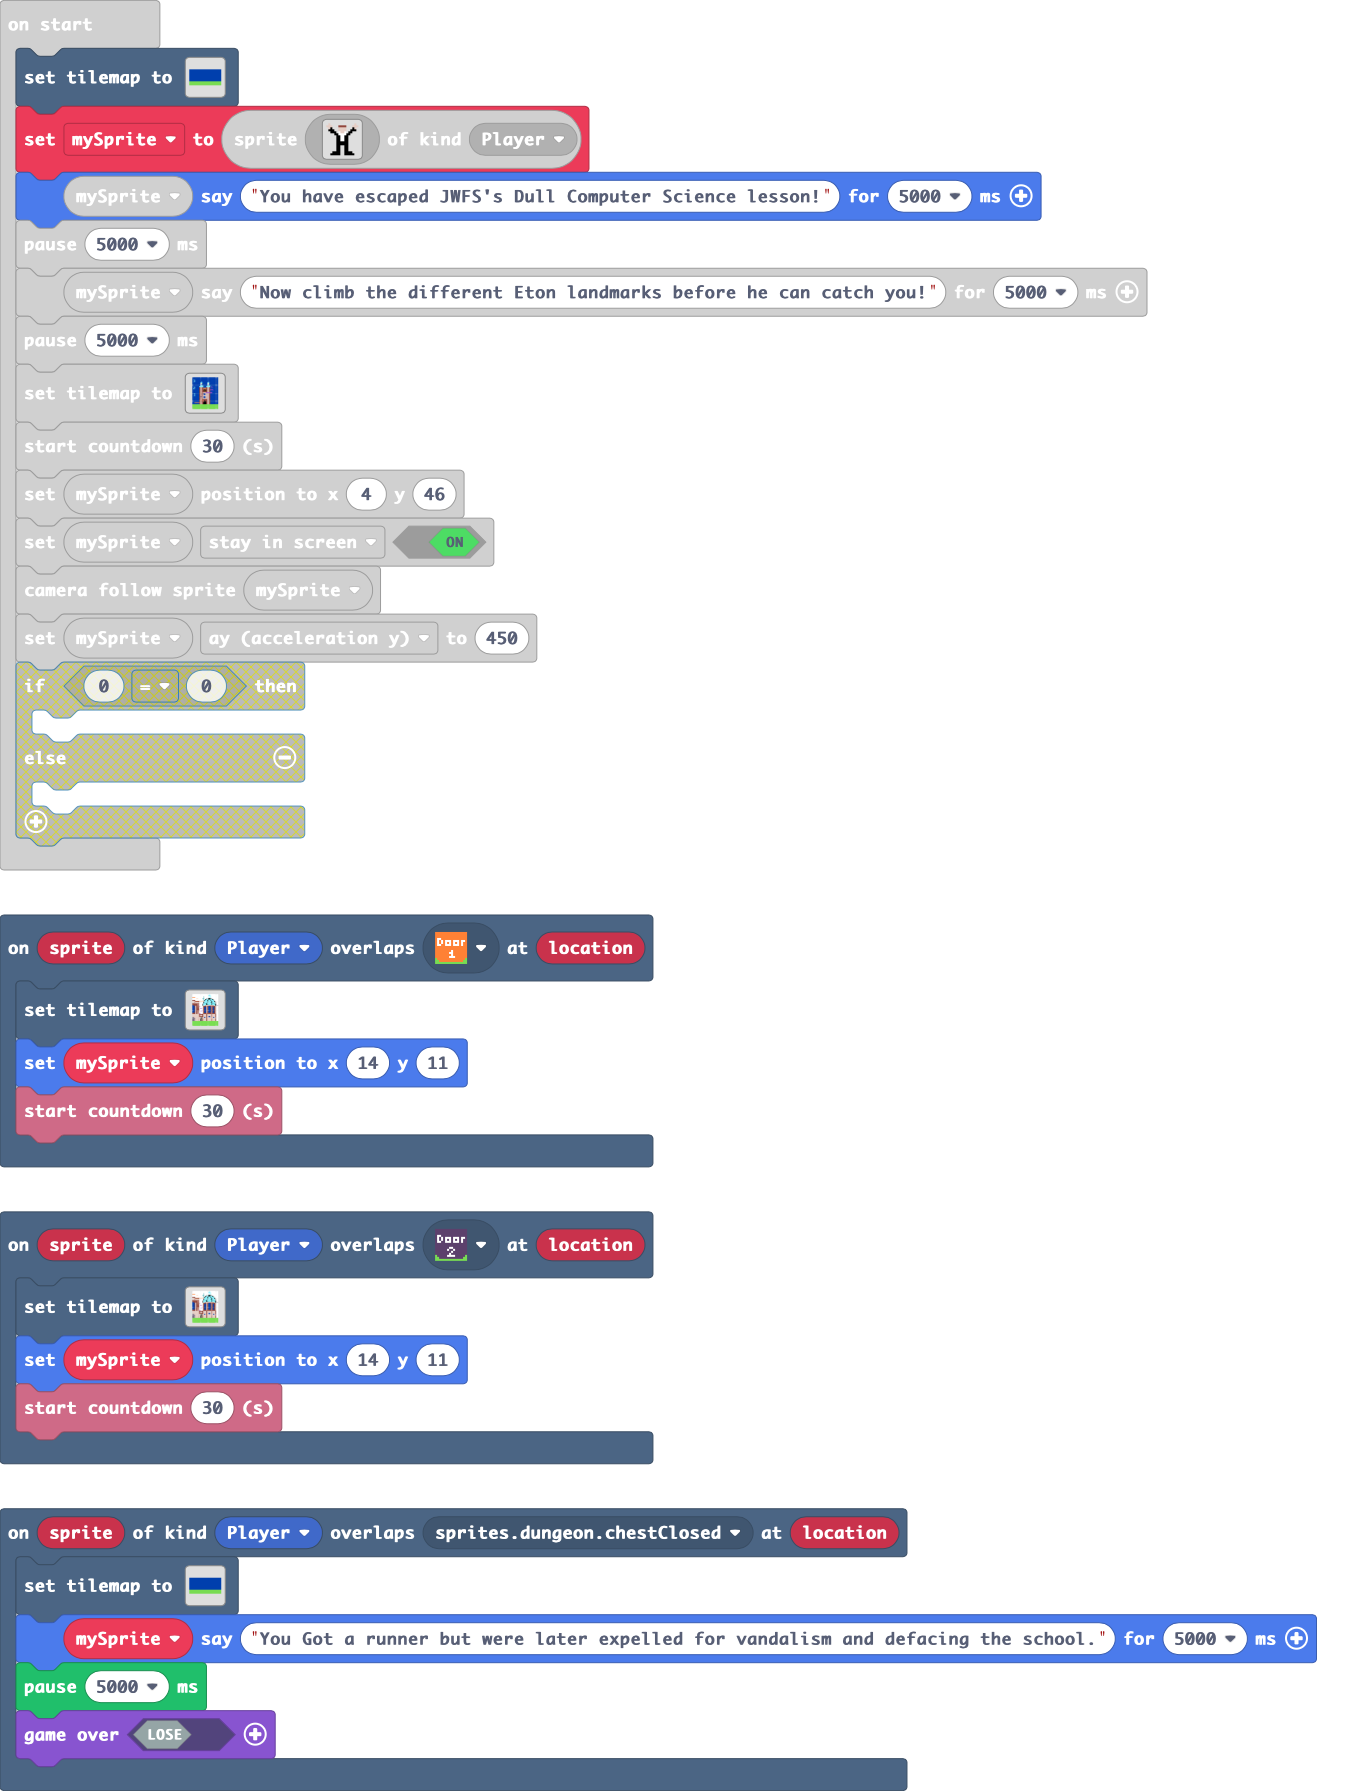
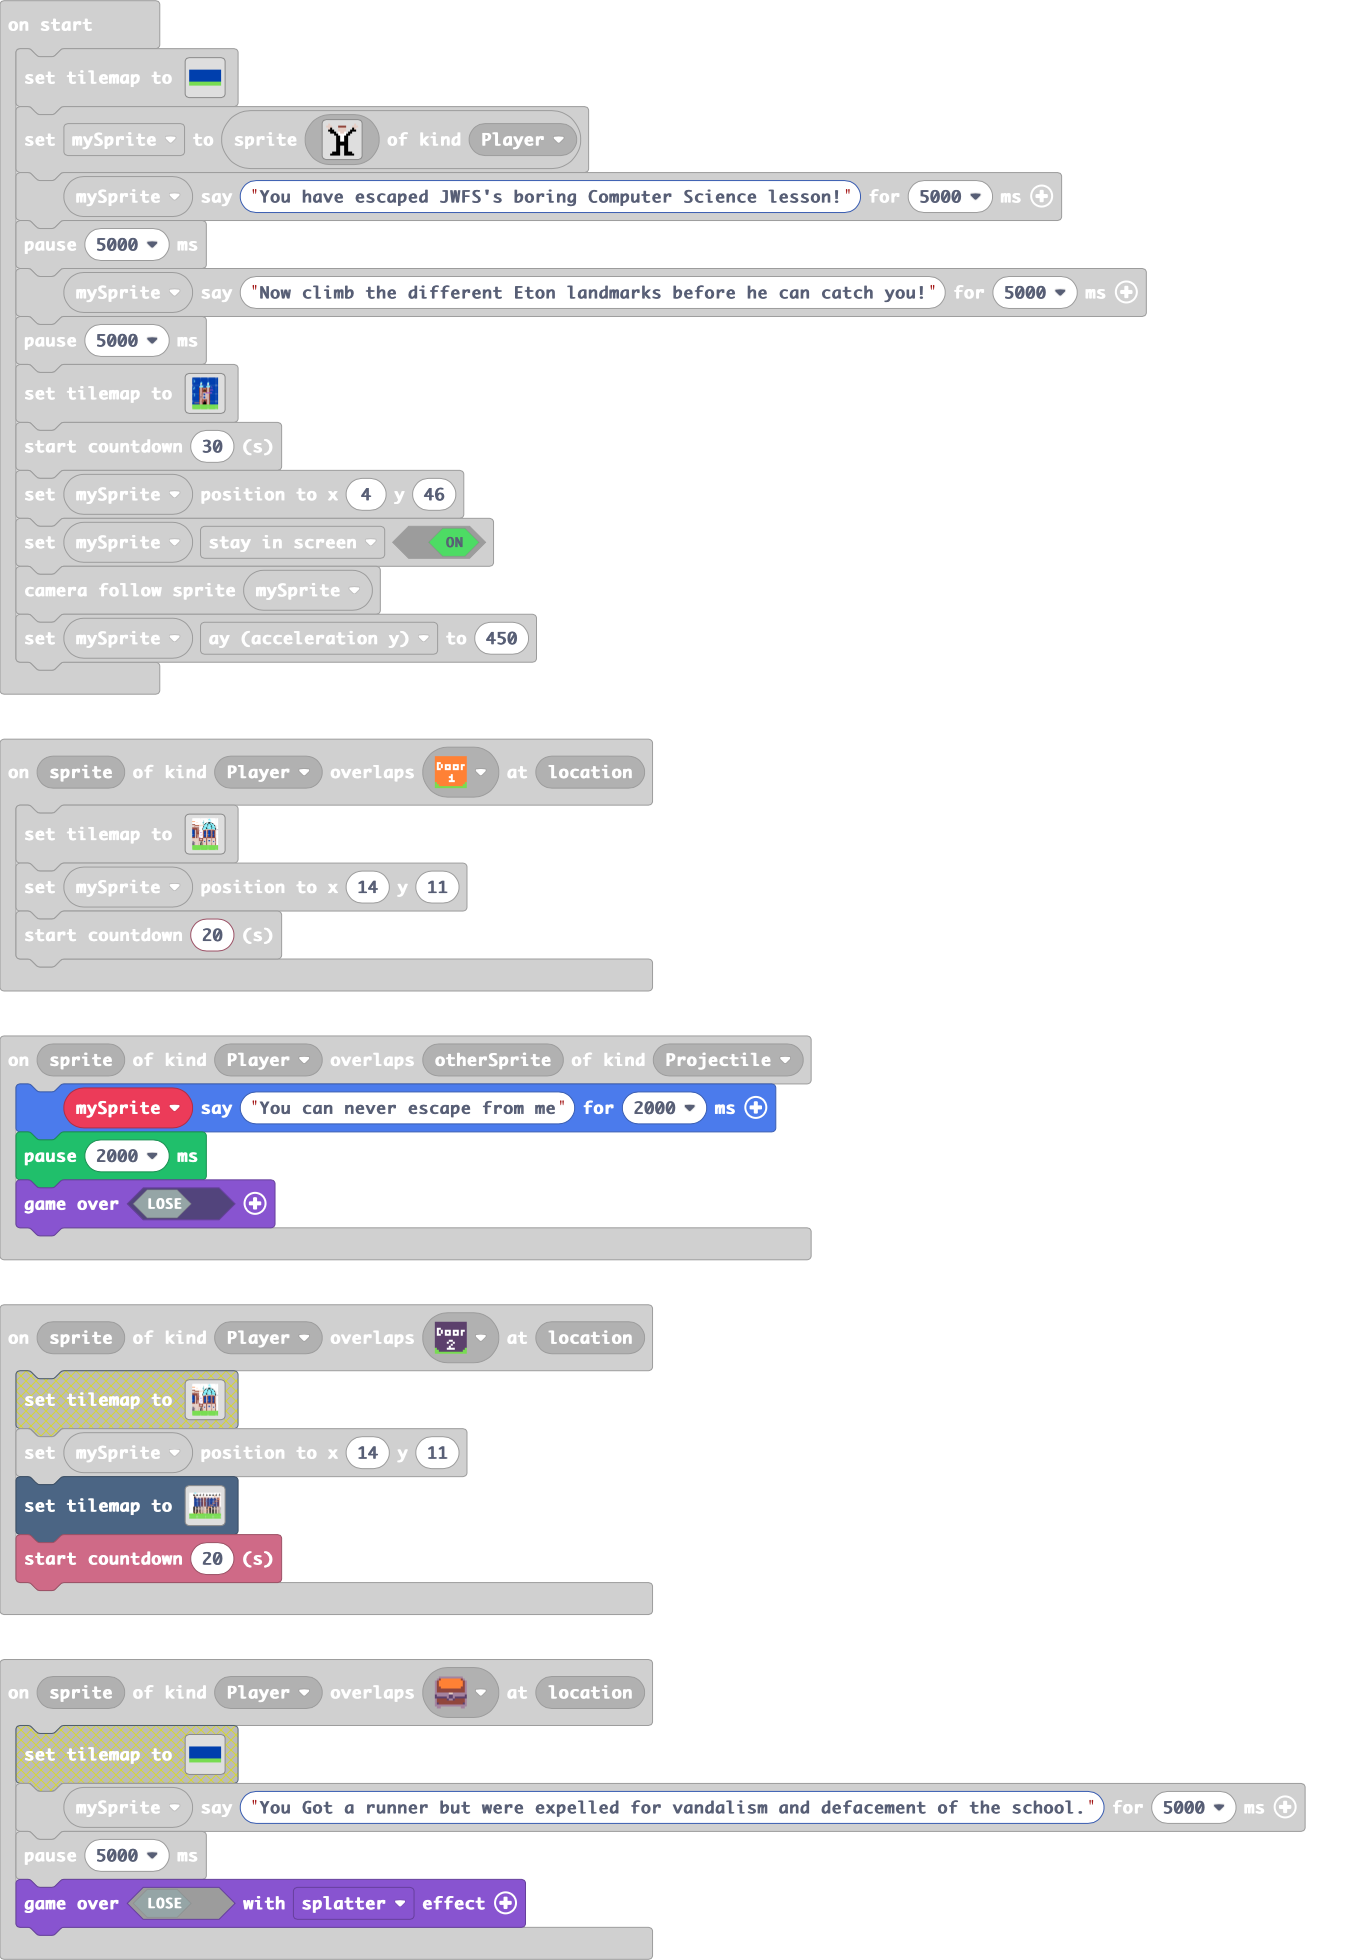
final version

diff --git a/tilemap.g.ts b/tilemap.g.ts
@@ -337,6 +337,114 @@ namespace myTiles {
 ................................................
 ................................................
 `, [myTiles.transparency16,myTiles.tile12,myTiles.tile3,myTiles.tile4,myTiles.tile5,myTiles.tile6,myTiles.tile7,tiles.util.arrow1,myTiles.tile10,tiles.util.arrow5,tiles.util.arrow6,tiles.util.arrow10,tiles.util.arrow13,tiles.util.door7,tiles.util.arrow14], TileScale.Sixteen);
+            case "level7":
+            case "level7":return tiles.createTilemap(hex`1000100000000000000000000000000000000000000000000000000000000000000000000000000000000000000000000000000000000000000000000000000000000000000000000000000000000000000000000000000000000000000000000000000000000000000000000000000000000000000000000000000000000000000000000000000000000000000000000000000000000000000000000000000000000000000000000000000000000000000000000000000000000000000000000000000000000000000000000000000000000000000000000000000000000000000000000000000000000000000000000000000000000000000000000000000000000000`, img`
+. . . . . . . . . . . . . . . . 
+. . . . . . . . . . . . . . . . 
+. . . . . . . . . . . . . . . . 
+. . . . . . . . . . . . . . . . 
+. . . . . . . . . . . . . . . . 
+. . . . . . . . . . . . . . . . 
+. . . . . . . . . . . . . . . . 
+. . . . . . . . . . . . . . . . 
+. . . . . . . . . . . . . . . . 
+. . . . . . . . . . . . . . . . 
+. . . . . . . . . . . . . . . . 
+. . . . . . . . . . . . . . . . 
+. . . . . . . . . . . . . . . . 
+. . . . . . . . . . . . . . . . 
+. . . . . . . . . . . . . . . . 
+. . . . . . . . . . . . . . . . 
+`, [myTiles.transparency16], TileScale.Sixteen);
+            case "level8":
[1 lines of base64/hex data omitted]
+............................................................
+............................................................
+............................................................
+............................................................
+............................................................
+............................................................
+...............................................222..........
+............................................................
+............................................................
+...........22222222222222222222222222222222222..............
+............................................................
+............................................................
+....................................................222222..
+............................................................
+............................................................
+............................................................
+................................................222222......
+............................................................
+............................................................
+............................................222222..........
+............................................................
+............................................................
+............................................................
+........................................222222..............
+............................................................
+............................................................
+............................................................
+....................................222222..................
+............................................................
+............................................................
+............................................................
+................................222222......................
+............................................................
+............................................................
+............................................................
+............................222222..........................
+............................................................
+............................................................
+............................................................
+222222222222222222222222222222222222222222222222222222222222
+............................................................
+............................................................
+............................................................
+............................................................
+............................................................
+............................................................
+............................................................
+............................................................
+`, [myTiles.transparency16,myTiles.tile4,myTiles.tile5,myTiles.tile6,myTiles.tile7,myTiles.tile12,myTiles.tile3,sprites.dungeon.chestClosed,tiles.util.arrow0,tiles.util.arrow4,tiles.util.arrow1,myTiles.tile10], TileScale.Sixteen);
+            case "level9":
+            case "level9":return tiles.createTilemap(hex`1000100000000000000000000000000000000000000000000000000000000000000000000000000000000000000000000000000000000000000000000000000000000000000000000000000000000000000000000000000000000000000000000000000000000000000000000000000000000000000000000000000000000000000000000000000000000000000000000000000000000000000000000000000000000000000000000000000000000000000000000000000000000000000000000000000000000000000000000000000000000000000000000000000000000000000000000000000000000000000000000000000000000000000000000000000000000000`, img`
+. . . . . . . . . . . . . . . . 
+. . . . . . . . . . . . . . . . 
+. . . . . . . . . . . . . . . . 
+. . . . . . . . . . . . . . . . 
+. . . . . . . . . . . . . . . . 
+. . . . . . . . . . . . . . . . 
+. . . . . . . . . . . . . . . . 
+. . . . . . . . . . . . . . . . 
+. . . . . . . . . . . . . . . . 
+. . . . . . . . . . . . . . . . 
+. . . . . . . . . . . . . . . . 
+. . . . . . . . . . . . . . . . 
+. . . . . . . . . . . . . . . . 
+. . . . . . . . . . . . . . . . 
+. . . . . . . . . . . . . . . . 
+. . . . . . . . . . . . . . . . 
+`, [myTiles.transparency16], TileScale.Sixteen);
+            case "level10":
+            case "level10":return tiles.createTilemap(hex`1000100000000000000000000000000000000000000000000000000000000000000000000000000000000000000000000000000000000000000000000000000000000000000000000000000000000000000000000000000000000000000000000000000000000000000000000000000000000000000000000000000000000000000000000000000000000000000000000000000000000000000000000000000000000000000000000000000000000000000000000000000000000000000000000000000000000000000000000000000000000000000000000000000000000000000000000000000000000000000000000000000000000000000000000000000000000000`, img`
+. . . . . . . . . . . . . . . . 
+. . . . . . . . . . . . . . . . 
+. . . . . . . . . . . . . . . . 
+. . . . . . . . . . . . . . . . 
+. . . . . . . . . . . . . . . . 
+. . . . . . . . . . . . . . . . 
+. . . . . . . . . . . . . . . . 
+. . . . . . . . . . . . . . . . 
+. . . . . . . . . . . . . . . . 
+. . . . . . . . . . . . . . . . 
+. . . . . . . . . . . . . . . . 
+. . . . . . . . . . . . . . . . 
+. . . . . . . . . . . . . . . . 
+. . . . . . . . . . . . . . . . 
+. . . . . . . . . . . . . . . . 
+. . . . . . . . . . . . . . . . 
+`, [myTiles.transparency16], TileScale.Sixteen);
         }
         return null;
     })

diff --git a/main.ts b/main.ts
@@ -7,9 +7,9 @@ controller.right.onEvent(ControllerButtonEvent.Repeated, function () {
     mySprite.x += 5
 })
 scene.onOverlapTile(SpriteKind.Player, tiles.util.door7, function (sprite, location) {
-    tiles.setTilemap(tilemap`level4`)
     mySprite.setPosition(14, 11)
-    info.startCountdown(30)
+    tiles.setTilemap(tilemap`level8`)
+    info.startCountdown(20)
 })
 info.onCountdownEnd(function () {
     projectile = sprites.create(img`
@@ -35,18 +35,19 @@ info.onCountdownEnd(function () {
     projectile.setVelocity(Math.max(20, -20), Math.max(20, -20))
 })
 scene.onOverlapTile(SpriteKind.Player, sprites.dungeon.chestClosed, function (sprite, location) {
-    tiles.setTilemap(tilemap`level3`)
-    mySprite.say("You Got a runner but were later expelled for vandalism and defacing the school.", 5000)
+    mySprite.say("You Got a runner but were expelled for vandalism and defacement of the school.", 5000)
     pause(5000)
-    game.over(false)
+    game.over(false, effects.splatter)
 })
 sprites.onOverlap(SpriteKind.Player, SpriteKind.Projectile, function (sprite, otherSprite) {
+    mySprite.say("You can never escape from me", 2000)
+    pause(2000)
     game.over(false)
 })
 scene.onOverlapTile(SpriteKind.Player, tiles.util.door5, function (sprite, location) {
     tiles.setTilemap(tilemap`level4`)
     mySprite.setPosition(14, 11)
-    info.startCountdown(30)
+    info.startCountdown(20)
 })
 controller.left.onEvent(ControllerButtonEvent.Repeated, function () {
     mySprite.x += -5
@@ -72,7 +73,7 @@ mySprite = sprites.create(img`
     . . . f f f f . . f f f f . . . 
     . . f f f f f . . f f f f f . . 
     `, SpriteKind.Player)
-mySprite.say("You have escaped JWFS's Dull Computer Science lesson!", 5000)
+mySprite.say("You have escaped JWFS's boring Computer Science lesson!", 5000)
 pause(5000)
 mySprite.say("Now climb the different Eton landmarks before he can catch you!", 5000)
 pause(5000)
